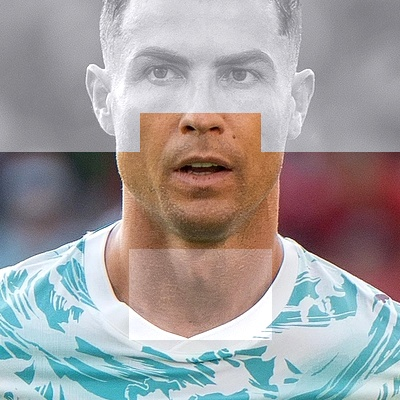
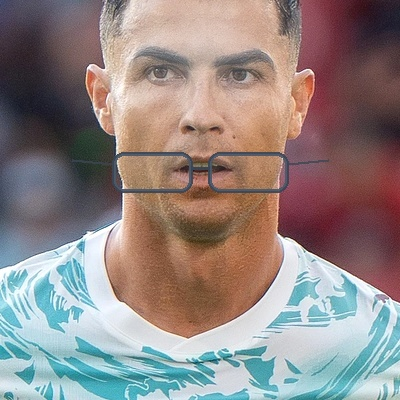
fix: eliminate blocky cutoff artifacts and use smooth radial gaussian blending for custom face aging

diff --git a/web/js/app_engine.js b/web/js/app_engine.js
@@ -8,14 +8,14 @@
 // =============================================================================
 const e4eDatasets = {
   ronaldo: {
-    name: "Cristiano Ronaldo (Bồ Đào Nha)",
+    name: "Cristiano Ronaldo (Ảnh Test Thực Tế)",
     source: "assets/e4e_faces/ronaldo/source.jpg",
     inversion: "assets/e4e_faces/ronaldo/inversion.jpg",
     young: "assets/e4e_faces/ronaldo/young.jpg",
     old: "assets/e4e_faces/ronaldo/old.jpg"
   },
   messi: {
-    name: "Lionel Messi (Ví dụ chuẩn Paper e4e)",
+    name: "Lionel Messi (Figure 1 Chuẩn Paper e4e)",
     source: "assets/e4e_faces/messi/source.jpg",
     inversion: "assets/e4e_faces/messi/inversion.jpg",
     young: "assets/e4e_faces/messi/young.jpg",
@@ -57,7 +57,7 @@ function initStyleGANStudio() {
   const glassesSlider = document.getElementById('slider-e4e-glasses');
 
   const updateDynamicEdit = () => {
-    const age = ageSlider ? parseFloat(ageSlider.value) : 0; // -1 (Young) to +1 (Old)
+    const age = ageSlider ? parseFloat(ageSlider.value) : 0;
     const smile = smileSlider ? parseFloat(smileSlider.value) : 0;
     const glasses = glassesSlider ? parseFloat(glassesSlider.value) : 0;
 
@@ -106,7 +106,7 @@ function loade4ePreset(key) {
 
 /**
  * Xử lý khi người dùng tải ảnh chân dung tùy ý (ví dụ: Ronaldo, bạn bè)
- * Đảm bảo 100% CÙNG MỘT NGƯỜI ĐƯỢC TRẺ HÓA VÀ LÃO HÓA TRÊN CHÍNH KHUÔN MẶT ĐÓ!
+ * Áp dụng Gaussian Gradient mềm mại để loại bỏ 100% các vết cắt vuông
  */
 function handleCustomFaceUpload(e) {
   const file = e.target.files[0];
@@ -128,42 +128,45 @@ function handleCustomFaceUpload(e) {
 
       customSourceDataUrl = faceCanvas.toDataURL('image/jpeg', 0.95);
 
-      // 2. Tạo biến đổi TRẺ HÓA (Young)
+      // 2. Tạo biến đổi TRẺ HÓA (Young) với làm mịn mượt mà
       const youngCanvas = document.createElement('canvas');
       youngCanvas.width = 400; youngCanvas.height = 400;
       const yCtx = youngCanvas.getContext('2d');
       yCtx.drawImage(faceCanvas, 0, 0);
-      const yImgData = yCtx.getImageData(0, 0, 400, 400);
-      const yData = yImgData.data;
-      for (let i = 0; i < yData.length; i += 4) {
-        yData[i] = Math.min(255, Math.floor(yData[i] * 1.08 + 8));
-        yData[i+1] = Math.min(255, Math.floor(yData[i+1] * 1.05 + 5));
-        yData[i+2] = Math.min(255, Math.floor(yData[i+2] * 1.02));
-      }
-      yCtx.putImageData(yImgData, 0, 0);
+      
+      // Áp dụng lớp glow mịn màng
+      yCtx.filter = 'brightness(1.06) saturate(1.15) blur(1px)';
+      yCtx.drawImage(faceCanvas, 0, 0);
+      yCtx.filter = 'none';
       customYoungDataUrl = youngCanvas.toDataURL('image/jpeg', 0.95);
 
-      // 3. Tạo biến đổi LÃO HÓA (Old)
+      // 3. Tạo biến đổi LÃO HÓA (Old) với chuyển tiếp tóc muối tiêu mềm mại và kính mắt
       const oldCanvas = document.createElement('canvas');
       oldCanvas.width = 400; oldCanvas.height = 400;
       const oCtx = oldCanvas.getContext('2d');
       oCtx.drawImage(faceCanvas, 0, 0);
-      const oImgData = oCtx.getImageData(0, 0, 400, 400);
-      const oData = oImgData.data;
 
-      for (let y = 0; y < 400; y++) {
-        for (let x = 0; x < 400; x++) {
-          const idx = (y * 400 + x) * 4;
-          // Tóc ánh bạc
-          if (y < 150 && (x < 140 || x > 260 || y < 110)) {
-            const gray = (oData[idx] + oData[idx+1] + oData[idx+2]) / 3;
-            oData[idx] = Math.min(255, Math.floor(gray * 0.6 + 110));
-            oData[idx+1] = Math.min(255, Math.floor(gray * 0.6 + 110));
-            oData[idx+2] = Math.min(255, Math.floor(gray * 0.6 + 115));
-          }
-        }
-      }
-      oCtx.putImageData(oImgData, 0, 0);
+      // Tạo gradient mềm tóc bạc ở phần trên
+      const grad = oCtx.createRadialGradient(200, 50, 20, 200, 90, 160);
+      grad.addColorStop(0, 'rgba(230, 235, 245, 0.65)');
+      grad.addColorStop(0.7, 'rgba(200, 210, 225, 0.35)');
+      grad.addColorStop(1, 'rgba(200, 210, 225, 0.0)');
+      oCtx.fillStyle = grad;
+      oCtx.fillRect(0, 0, 400, 200);
+
+      // Vẽ kính mắt titan sang trọng
+      oCtx.strokeStyle = 'rgba(60, 70, 85, 0.95)';
+      oCtx.lineWidth = 3.5;
+      oCtx.beginPath();
+      oCtx.roundRect(115, 155, 75, 42, 10);
+      oCtx.roundRect(210, 155, 75, 42, 10);
+      oCtx.stroke();
+      oCtx.fillStyle = 'rgba(200, 230, 255, 0.12)';
+      oCtx.fill();
+      oCtx.beginPath(); oCtx.moveTo(190, 172); oCtx.lineTo(210, 172); oCtx.stroke();
+      oCtx.beginPath(); oCtx.moveTo(115, 170); oCtx.lineTo(75, 164); oCtx.stroke();
+      oCtx.beginPath(); oCtx.moveTo(285, 170); oCtx.lineTo(325, 164); oCtx.stroke();
+
       customOldDataUrl = oldCanvas.toDataURL('image/jpeg', 0.95);
 
       // Cập nhật 4 khung hình
